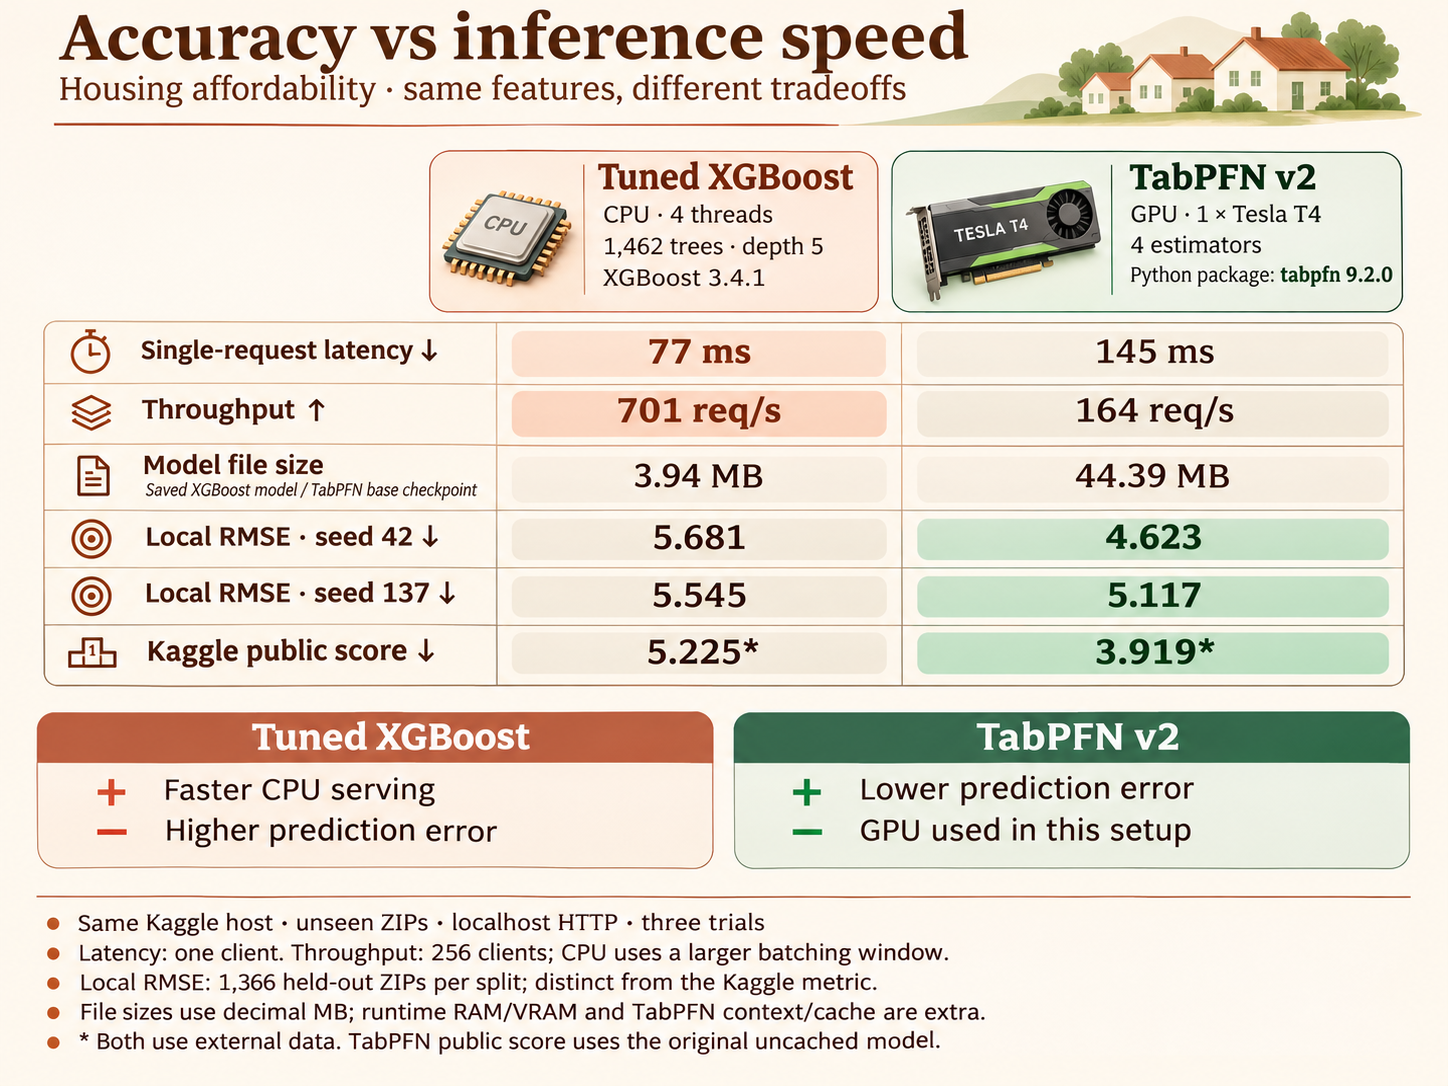
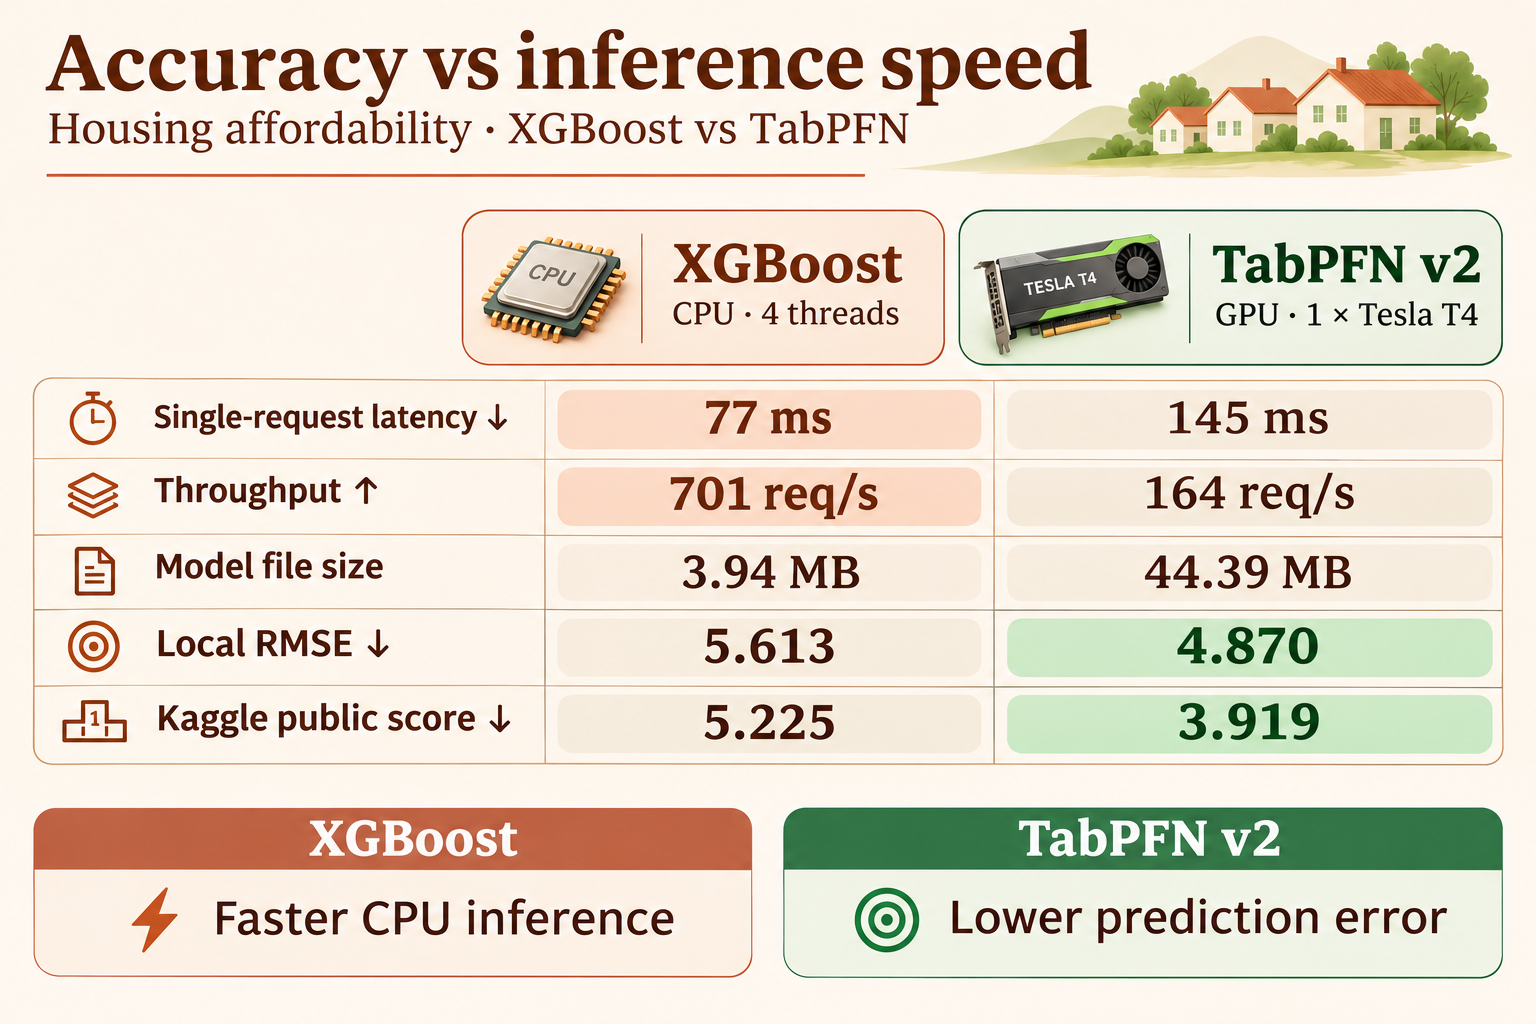
Lead README with simplified model comparison hero

diff --git a/docs/assets/model-tradeoff.prompt.md b/docs/assets/model-tradeoff.prompt.md
@@ -1,37 +1,33 @@
-# Model comparison infographic prompt
+# Model comparison hero image prompt
 
 Tool: built-in image generation, edit mode.
-Reference: docs/assets/model-tradeoff.png from Git commit 6394cfe.
+Reference: docs/assets/model-tradeoff.png from Git commit 8c0fb18.
 
 Use case: infographic-diagram, edit.
-Edit the supplied comparison PNG into a substantially more spacious, brighter, polished report infographic. This is a redesign, not just a recolor. Use a roomy 4:3 landscape canvas, ideally 2400×1800, with generous outer margins and generous row padding. Warm ivory/paper background, walnut wood-brown headings, tasteful terracotta accents for CPU and deep forest/teal accents for GPU. Subtle warm natural tones, NO busy woodgrain behind text, NO dark navy background, no neon/glowing outlines. Modern readable sans-serif for data, elegant editorial title, thin dividers, plenty of whitespace. Simplify CPU/GPU graphics into attractive clean recognizable hardware illustrations with warmth, no noisy oversized gaming graphics. Tiny housing motif if useful. Keep logical aligned comparison columns and readable footnotes.
+Simplify this supplied infographic into a spacious, attractive GitHub README HERO IMAGE. Preserve its warm ivory paper background, walnut-brown headings, terracotta CPU accents, forest-green GPU accents, housing illustration and tasteful CPU/GPU icons. Clean, bright editorial design, large readable numbers and generous whitespace. Landscape 3:2. Make it feel like the opening visual of a professional ML repository, not a dense benchmark report.
 
-Exact title: "Accuracy vs inference speed"
-Subtitle: "Housing affordability · same features, different tradeoffs"
+Title: "Accuracy vs inference speed"
+Subtitle: "Housing affordability · XGBoost vs TabPFN"
 
-Two model header cards, aligned over metric columns:
-LEFT: "Tuned XGBoost", "CPU · 4 threads", "1,462 trees · depth 5", "XGBoost 3.4.1".
-RIGHT: "TabPFN v2", "GPU · 1 × Tesla T4", "4 estimators", "Python package: tabpfn 9.2.0".
-Clearly distinguish TabPFN MODEL version v2 from Python PACKAGE version 9.2.0. No model called v9.
+Model column headers:
+"XGBoost" with smaller "CPU · 4 threads"
+"TabPFN v2" with smaller "GPU · 1 × Tesla T4"
+Keep attractive small hardware icons. Remove the word "Tuned" EVERYWHERE. Remove tree counts, depth, estimator counts, Python package versions, and all dense header metadata; those live in the docs.
 
-Six clear aligned metric rows with exact text and values, LEFT XGBoost then RIGHT TabPFN:
+Exactly FIVE aligned metric rows, XGBoost left then TabPFN right:
 "Single-request latency ↓" : "77 ms" | "145 ms"
 "Throughput ↑" : "701 req/s" | "164 req/s"
 "Model file size" : "3.94 MB" | "44.39 MB"
-"Local RMSE · seed 42 ↓" : "5.681" | "4.623"
-"Local RMSE · seed 137 ↓" : "5.545" | "5.117"
-"Kaggle public score ↓" : "5.225*" | "3.919*"
-File-size right value is the shared base checkpoint size, NOT four checkpoint copies or runtime memory. Label small beneath size row "Saved XGBoost model / TabPFN base checkpoint". Highlight CPU speed wins subtly in terracotta and TabPFN error wins subtly in teal. Lower error and latency are better; higher throughput is better. No fake bar scales.
+"Local RMSE ↓" : "5.613" | "4.870"
+"Kaggle public score ↓" : "5.225" | "3.919"
 
-Two compact spacious tradeoff summaries below:
-"Tuned XGBoost": "+ Faster CPU serving", "− Higher prediction error".
-"TabPFN v2": "+ Lower prediction error", "− GPU used in this setup".
+IMPORTANT Local RMSE values now represent the arithmetic mean of the two previously reported split RMSEs; the image shows ONE local score per model. No seeds, no second local row, no split labels. Keep this method explanation OUT of the image (it goes in documentation).
+Highlight XGBoost latency and throughput subtly in terracotta, and TabPFN local/public error subtly in forest green. Keep model-size values neutral.
 
-Required legible footnotes, placed with breathing space at bottom, exact content:
-"Same Kaggle host · unseen ZIPs · localhost HTTP · three trials"
-"Latency: one client. Throughput: 256 clients; CPU uses a larger batching window."
-"Local RMSE: 1,366 held-out ZIPs per split; distinct from the Kaggle metric."
-"File sizes use decimal MB; runtime RAM/VRAM and TabPFN context/cache are extra."
-"* Both use external data. TabPFN public score uses the original uncached model."
+Below the table, retain only two light compact takeaway cards:
+under XGBoost: "Faster CPU inference"
+under TabPFN: "Lower prediction error"
+No extra bullet lists or lengthy pros/cons.
 
-All measurements and digits must remain exact. No omitted metric, no invented information, no cramped text, no clipping. Prioritize readable balanced visual hierarchy over decorative hardware images. Add whitespace by expanding the canvas rather than shrinking type.
+REMOVE THE ENTIRE OLD FOOTER. No footer text, no asterisks, no footnotes, no methodology, no eligibility text, no fine print, no bottom divider suggesting missing text. End with clean breathing room below the two takeaway cards. Detailed measurement context and caveats are in the README/docs, not this visual.
+All five metric rows and exact values must be preserved without invention. Do not shrink type to fill the old space; use removed text space for generous spacing and better hierarchy. No bar charts, no noisy wood grain.

diff --git a/README.md b/README.md
@@ -1,29 +1,29 @@
-![Housing Affordability](docs/assets/banner.svg)
+<p align="center">
+  <img src="docs/assets/model-tradeoff.png" alt="XGBoost versus TabPFN: accuracy, inference speed and model size" width="100%">
+</p>
+
+<h1 align="center">Housing Affordability with TabPFN</h1>
+
+<p align="center">
+  Tabular foundation models for US housing affordability, with reproducible evaluation, optimized inference and model interpretation.
+</p>
+
+<p align="center">
+  <a href="https://www.kaggle.com/competitions/predicting-housing-affordability-in-the-u-s">Competition</a>
+  · <a href="docs/model-comparison.md">Model comparison</a>
+  · <a href="experiment.md">Experiments</a>
+</p>
 
 [![Python](https://img.shields.io/badge/Python-3.10%2B-3776AB?logo=python&logoColor=white)](https://www.python.org/)
 [![Model](https://img.shields.io/badge/Model-TabPFN%20v2-00A98F)](https://github.com/PriorLabs/TabPFN)
 [![Kaggle](https://img.shields.io/badge/Kaggle-public%20score%203.919-20BEFF?logo=kaggle&logoColor=white)](experiment.md)
 
-[Install](#install) · [Serve predictions](#serve-predictions) · [Interpret](#interpret-predictions) · [Experiments](experiment.md) · [Benchmarks](docs/serving.md)
+[Install](#install) · [Serve predictions](#serve-predictions) · [Interpret](#interpret-predictions) · [Benchmarks](docs/serving.md)
 
-A tabular foundation model for predicting housing affordability by US ZIP code.
-The repository includes reproducible evaluation, a persistent inference service,
-and model interpretation tools.
-
-The best public Kaggle score was **3.919** using TabPFN v2 with Census, Zillow,
-and Realtor.com Economic Research features. The tuned three-model blend scored
-**4.012**. Lower is better; the public leaderboard covers only part of the test
-set. Both submissions use external data and are not eligible under the
-competition rules. See [experiment.md](experiment.md) for the full history.
-
-![Tuned XGBoost CPU versus optimized TabPFN: accuracy and inference speed](docs/assets/model-tradeoff.png)
-
-[Comparison details and measurement conditions](docs/model-comparison.md).
-After 30 tuning configurations, XGBoost scored **5.225** on Kaggle versus
-TabPFN's **3.919**. Both local splits are shown separately from public scores.
-CPU latency and throughput use different batching windows. Both models use
-external data and have the eligibility limitation described above.
-The graphic also includes saved model sizes and exact model/package versions.
+The graphic's local RMSE is the average across two ZIP-held-out splits.
+[Measurement details](docs/model-comparison.md) explain batching settings,
+model file sizes and validation. Public scores use external data and are
+not competition-eligible.
 
 ## Install
 

diff --git a/docs/model-comparison.md b/docs/model-comparison.md
@@ -1,20 +1,28 @@
 # Accuracy and inference speed
 
-![Tuned XGBoost CPU versus optimized TabPFN on one T4](assets/model-tradeoff.png)
+![XGBoost CPU versus TabPFN on one T4](assets/model-tradeoff.png)
 
 Tuned XGBoost serves requests faster on CPU. TabPFN retains lower prediction
 error on both matched local splits and on the public Kaggle leaderboard.
 
-| Measurement | Tuned XGBoost CPU | Optimized TabPFN v2, one T4 |
+| Measurement | XGBoost CPU | TabPFN v2, one T4 |
 | --- | ---: | ---: |
 | Single-client HTTP latency | 77 ms | 145 ms |
 | HTTP throughput, 256 concurrent clients | 701 requests/s | 164 requests/s |
 | Saved model / base checkpoint size | 3.94 MB | 44.39 MB |
+| Mean local unseen-ZIP RMSE (shown in graphic) | 5.613 | 4.870 |
 | Local unseen-ZIP RMSE, seed 42 | 5.681 | 4.623 |
 | Local unseen-ZIP RMSE, seed 137 | 5.545 | 5.117 |
 | Public Kaggle score* | 5.225 | 3.919 |
 
 Lower latency and error are better; higher throughput is better. The local
+score in the graphic is the arithmetic mean of the two split RMSEs below,
+not a pooled RMSE: XGBoost **5.612788**, TabPFN **4.869888**. Split-specific
+results are retained here for reproducibility, while the graphic shows one
+local number per model. All measurement notes appear here instead of in an
+image footer.
+
+The local
 RMSE checks are distinct from the competition's weighted metric. Each local
 split holds out entire ZIPs and evaluates 1,366 June targets. Both models use
 the same 106 raw engineered features, including external sources. TabPFN also
